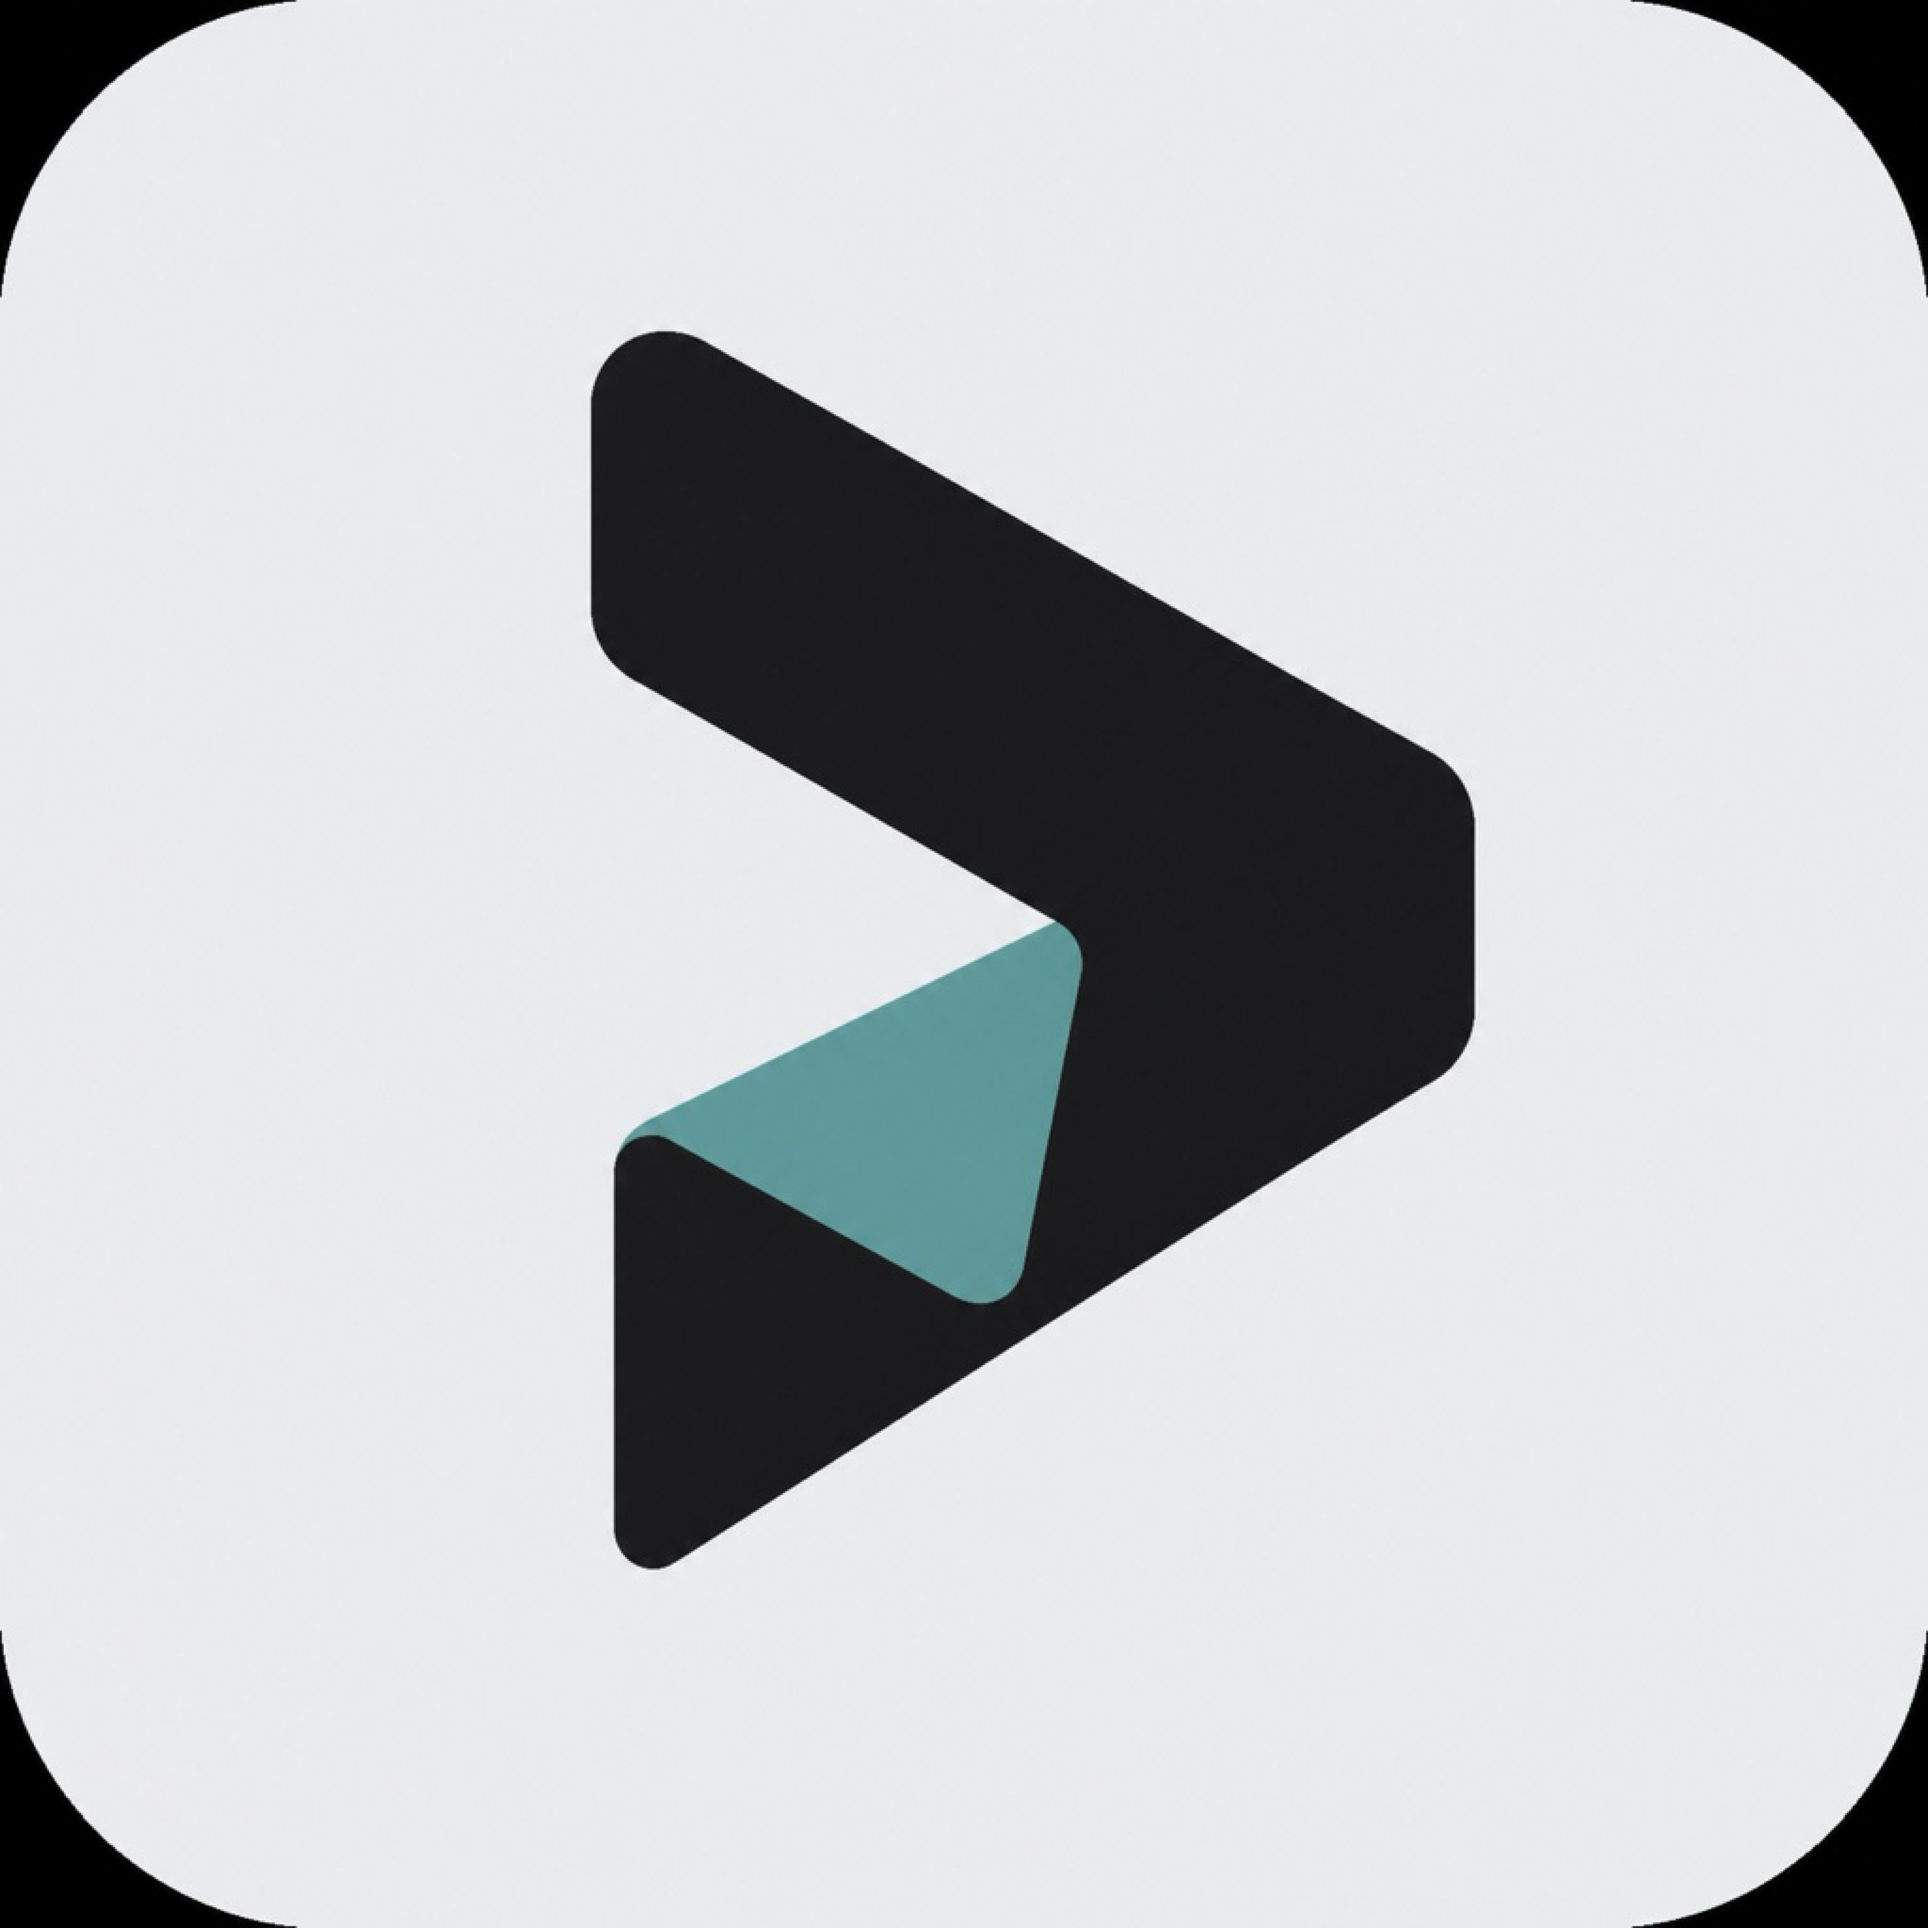
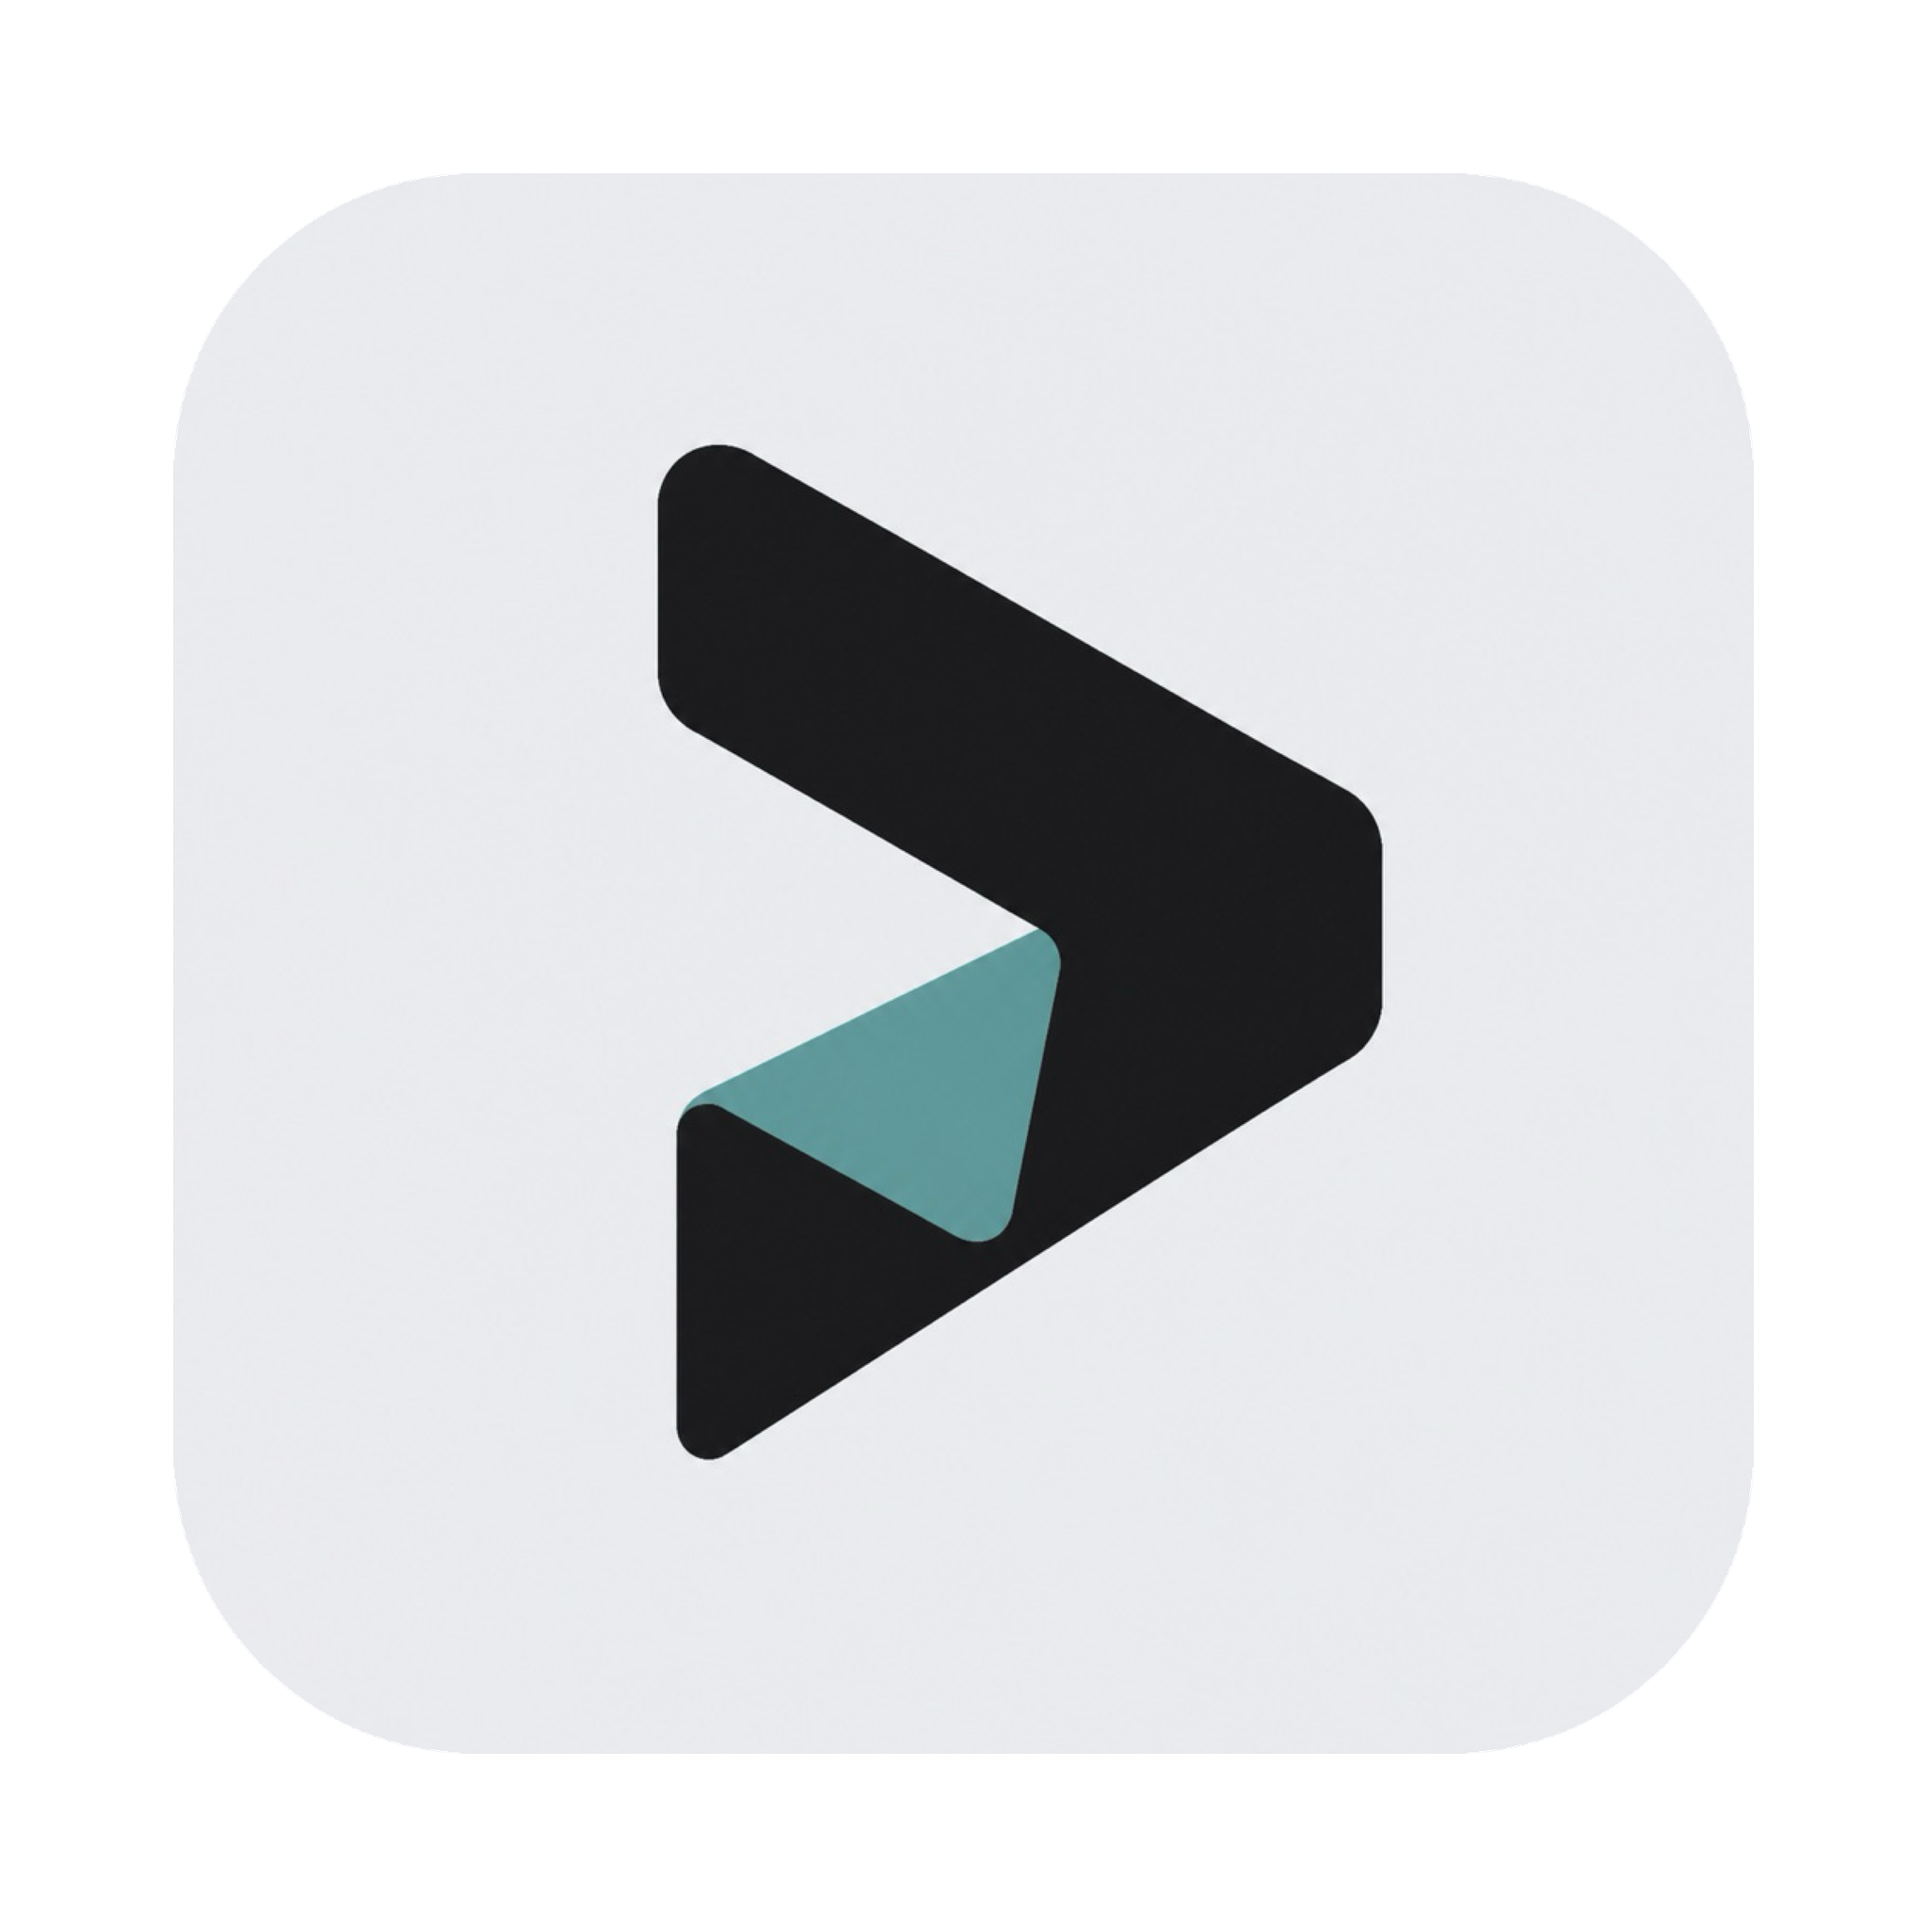
发布v1.0.2并修复Dock图标

diff --git a/AGENTS.md b/AGENTS.md
@@ -34,7 +34,7 @@ xcodebuild -project ModelTap.xcodeproj -scheme ModelTap -configuration Debug -sd
 
 ## 图标与发布打包
 
-- 主应用图标统一以`ModelTap/Assets.xcassets/AppIcon.appiconset/`为唯一生效来源，保持各尺寸图标的原始比例；应用启动时从Bundle中的`AppIcon.icns`明确设置运行时图标，供Dock和台前调度读取。仓库中的`ModelTap/AppIcon.icon/`是未参与构建的历史尝试，不得重新加入Target；如将来重做Icon Composer资源，必须使用分层且留有安全边距的前景素材，并在替换前验证16×16、32×32、Dock和台前调度效果。
+- 主应用图标统一以`ModelTap/Assets.xcassets/AppIcon.appiconset/`为唯一生效来源，保持各尺寸图标的原始比例；应用启动时从Bundle中的`AppIcon.icns`明确设置运行时图标，供Dock和台前调度读取。仓库中的`ModelTap/AppIcon.icon/`是未参与构建的历史尝试，不得重新加入Target；如将来重做Icon Composer资源，必须使用分层且留有安全边距的前景素材，并在替换前验证16×16、32×32、Dock和台前调度效果。当前图标主体按画布约82%的安全区居中，外围保留透明边距；所有PNG四角的Alpha值必须为0，不得把黑色或其他底色烘焙进透明区域，否则Dock会显示黑角且视觉尺寸大于系统图标。
 - UniversalRelease构建命令：
 
 ```bash
